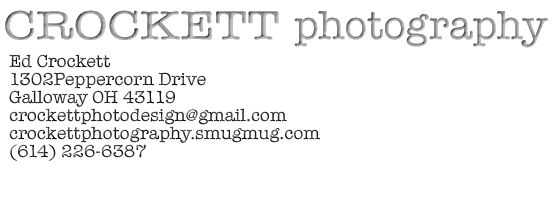
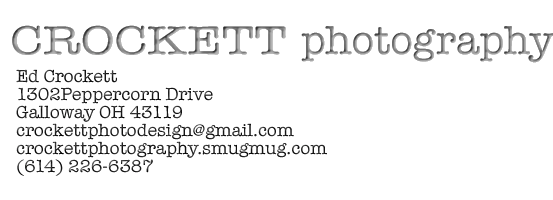
Lots of new static pages, styling.

Changed region(s): [[0.0, 0.03, 1.0, 0.87]]

diff --git a/web-app/css/public2.css b/web-app/css/public2.css
@@ -67,6 +67,7 @@ body {
 #nav a {
     color:white;
     float:left;
+    font-weight: normal;
     text-decoration: none;
     border-right: 1px solid gray;
     line-height:40px;
@@ -92,13 +93,18 @@ body {
 
 #content {
     background: url(../images/page-bg.png) repeat-y right;
-    min-height:1100px;
+    min-height:1150px;
     width:700px;
     border:0;
     padding-top:0;
     padding-left:50px;
     padding-right:50px;
 
+}
+
+
+.sponsor img {
+    max-width:600px;
 }
 
 #footer {
@@ -119,6 +125,7 @@ body {
     position: relative;
     top: 8px;
 }
+
 
 #footer a {
     color:#f0f0f0;
@@ -142,7 +149,7 @@ label.error {
 #xcode {
     float:right;
     height:380px;
-    padding: 10px 0 10px 10px;
+    padding: 0 0 10px 10px;
 }
 
 #appstore {
